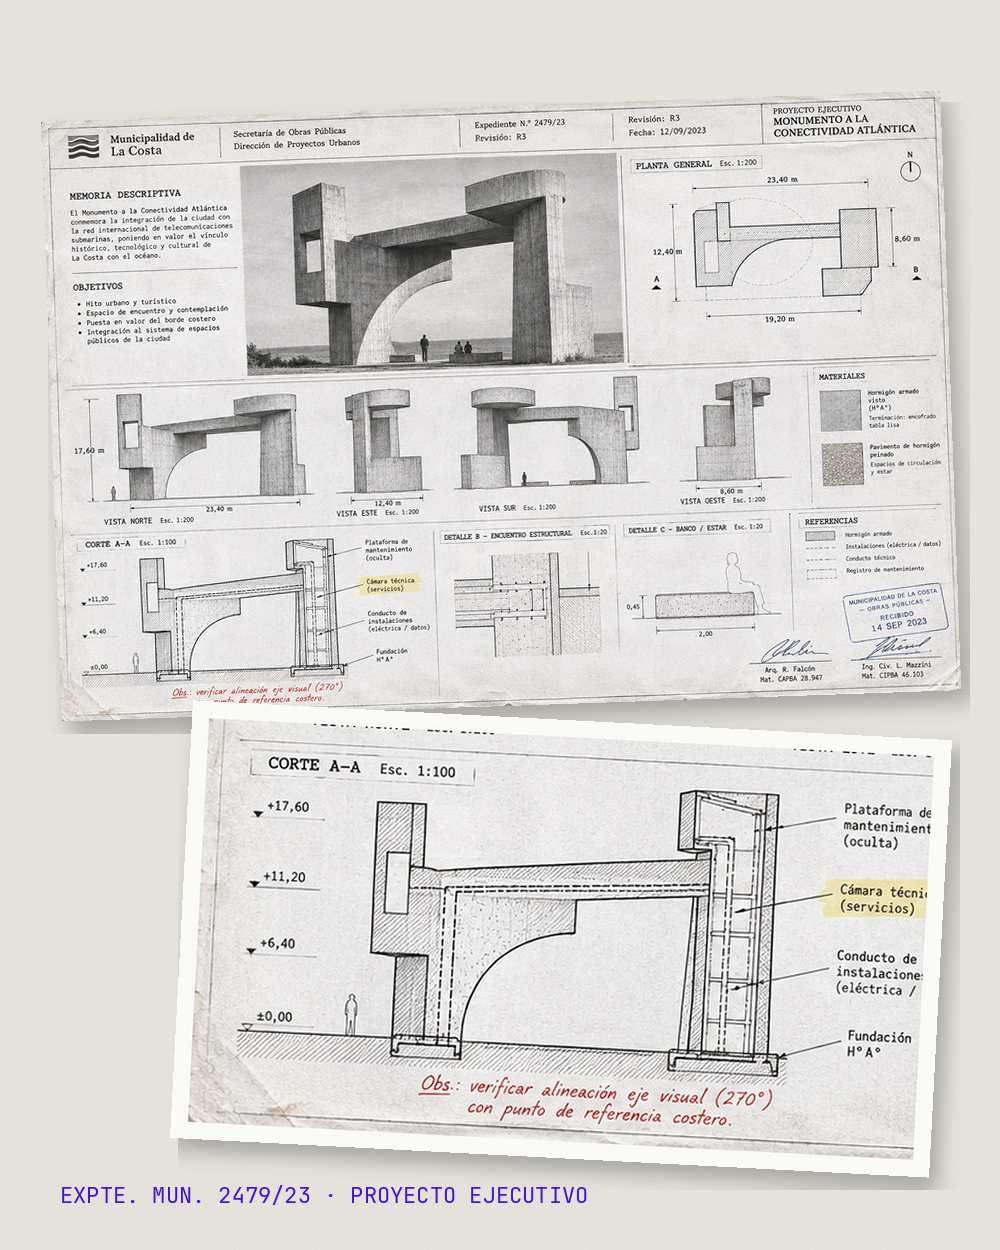
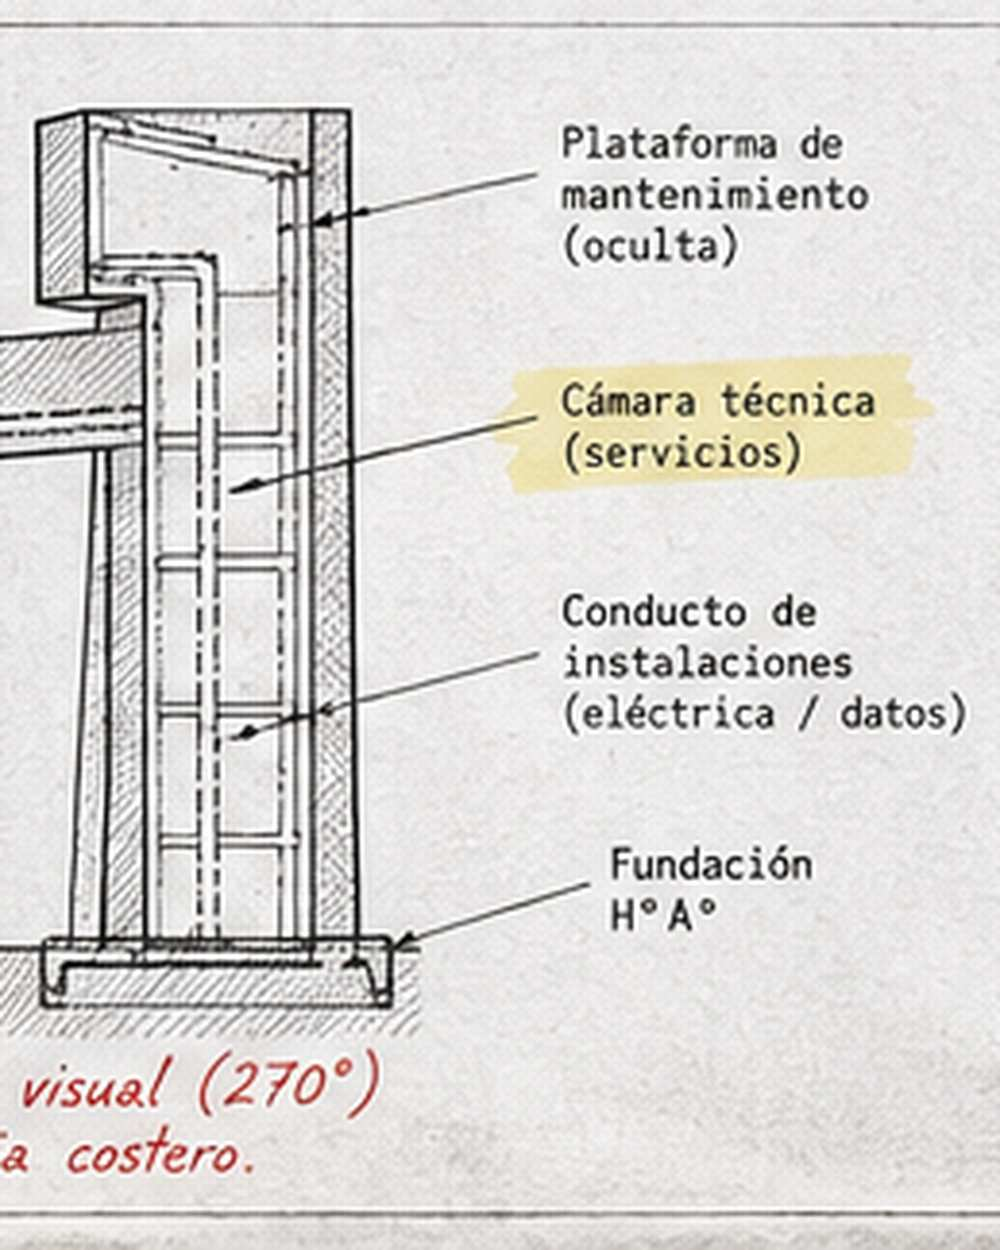
Diligencias 11 y 19: portadas por recorte del área de interés
Criterio: foto si la hay; si no, plano; si no, acta o documento, siempre
recortando y ampliando el área de interés. La 11 usa el corte A-A del
proyecto ejecutivo (cámara técnica); la 19, la vista aérea del monumento.

Claude-Session: https://claude.ai/code/session_01PLzxBmQsgU45fWmwBewggj

diff --git a/src/data/islas.ts b/src/data/islas.ts
@@ -580,7 +580,7 @@ export const ISLAS: IslaDefinition[] = [
     subtitle: 'Allanamiento y secuestro de documentación',
     tag: '15:ABRIL:26',
     accentColor: '#3F14DB',
-    imageCaption: 'PROYECTO EJECUTIVO DEL MONUMENTO · CORTE A-A',
+    imageCaption: 'PROYECTO EJECUTIVO · CORTE A-A',
     imageDate: '15/04/2026',
     headerLabel: 'DOCUMENTACIÓN DEL DEPÓSITO',
   },
@@ -700,7 +700,7 @@ export const ISLAS: IslaDefinition[] = [
     subtitle: 'Constatación de obras e instalaciones',
     tag: '15:AGOSTO:26',
     accentColor: '#3F14DB',
-    imageCaption: 'VISTA AÉREA / LÁMINA 02/04 INTERVENIDA',
+    imageCaption: 'MONUMENTO · VISTA AÉREA',
     imageDate: '15/08/2026',
     headerLabel: 'INSPECCIONES',
   },
